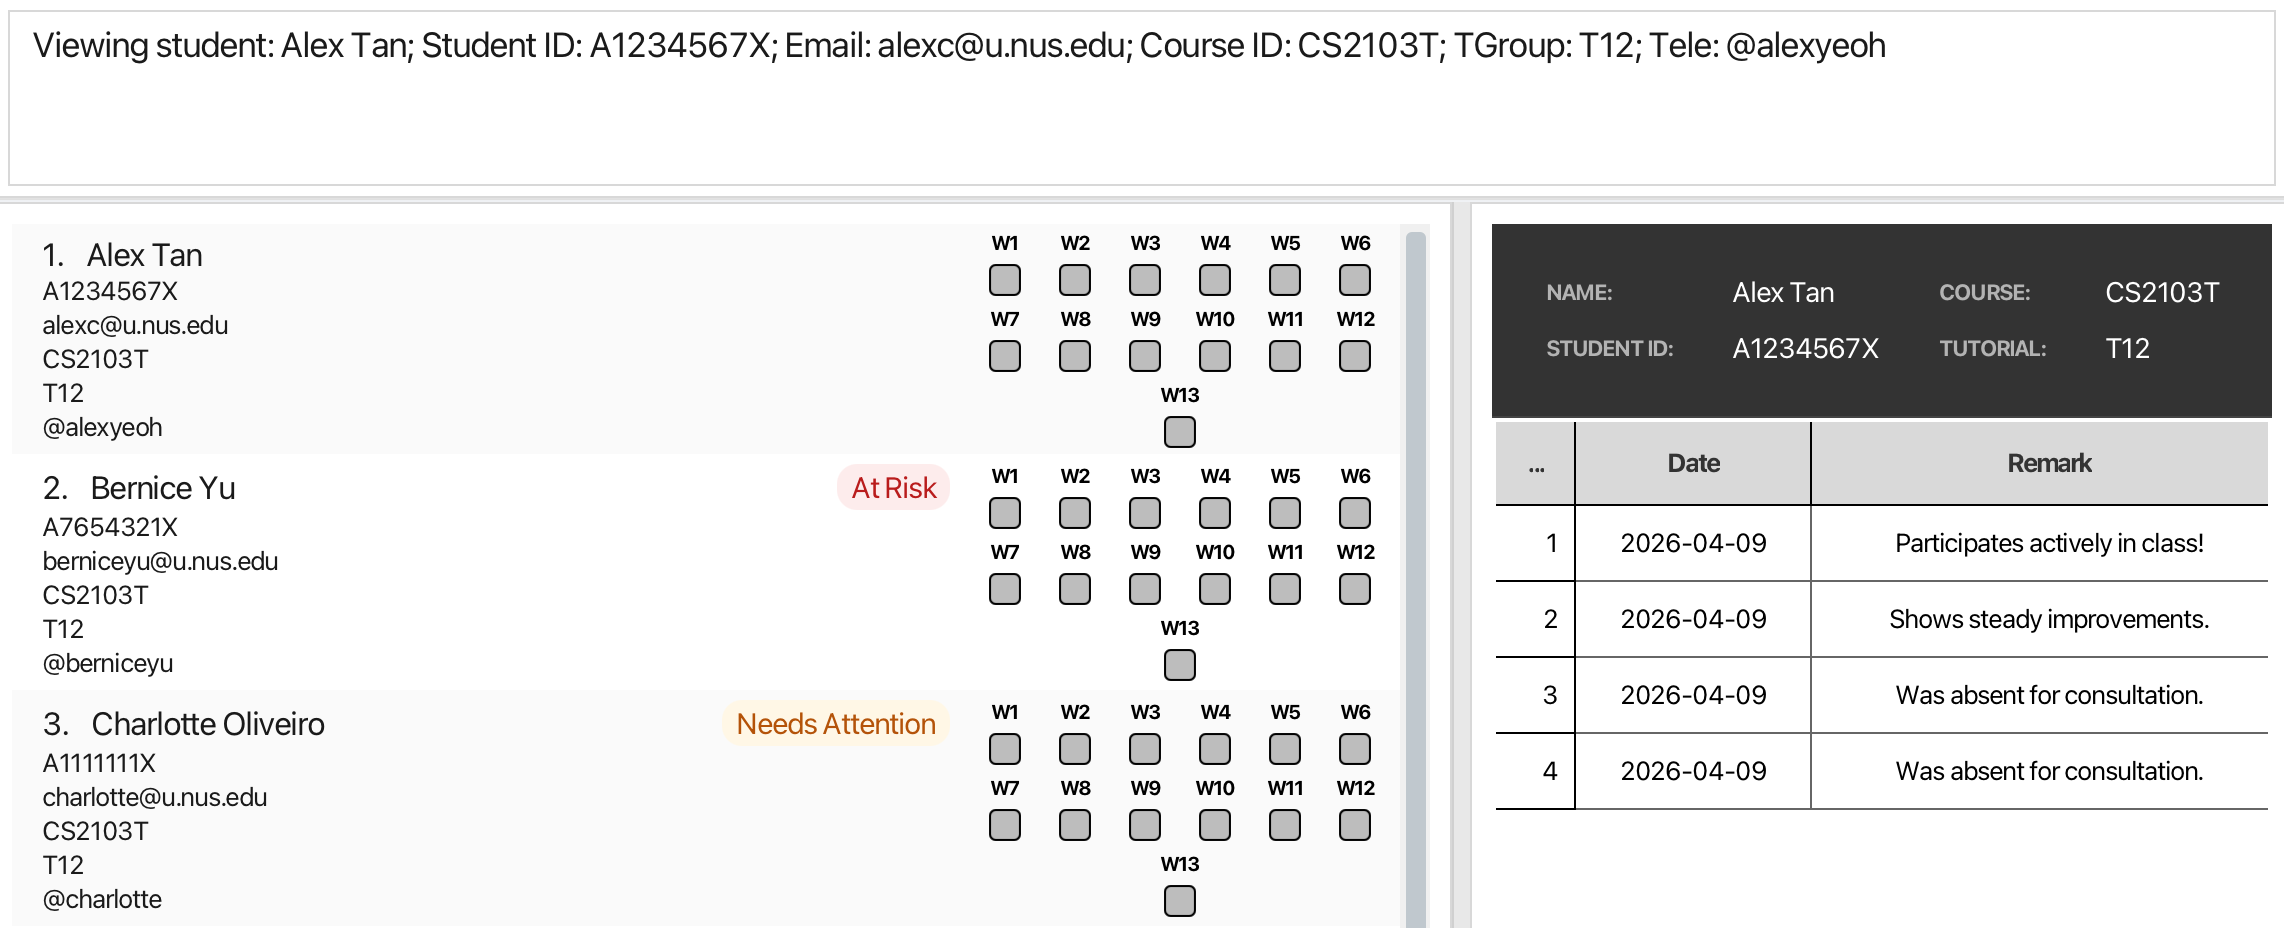
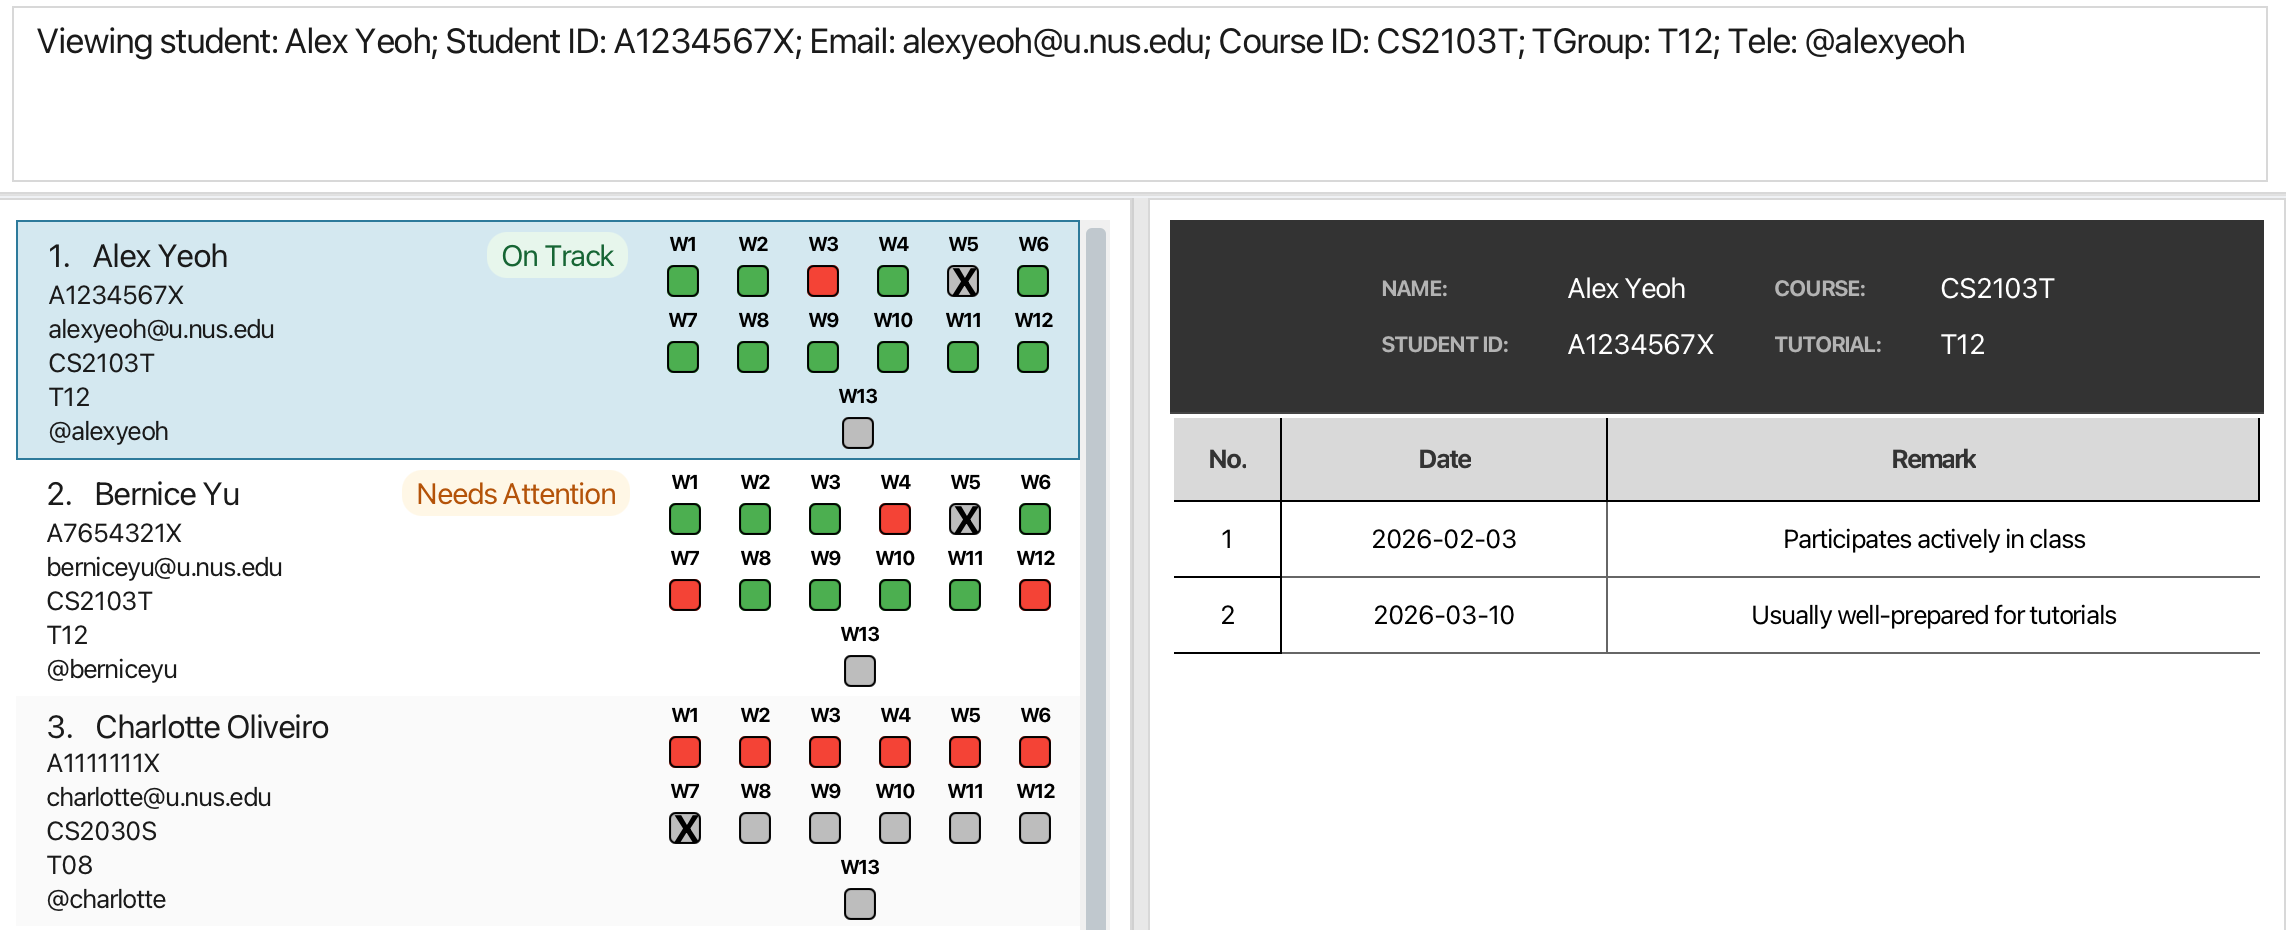
Updated all UI screenshots in UG

diff --git a/docs/UserGuide.md b/docs/UserGuide.md
@@ -96,7 +96,7 @@ Can't wait to get TeachAssist up and running? Let’s begin!
    After a few seconds, the GUI should appear, similar to the screenshot below.
    Notice that the app starts with some sample data for you to try out the commands.
 
-   ![Ui](images/Ui.png)
+    <img src="images/UiAnnotated.png" alt="help window" width="800">
 
 6. **Try entering a command in the command box.**
    A good place to start is help. Type it in and press Enter to open the help window and view the list of available commands.
@@ -354,15 +354,15 @@ marka INDEX wk/WEEK_NUMBER s/STATUS
 
 **Examples**:
 
-- `marka 1 wk/3 s/y` - marks the attendance of the 1st student's attendance in week 3 as present -> Green.
+- `marka 1 wk/3 s/a` - marks the attendance of the 1st student's attendance in week 3 as absent -> Red.
 
 **Expected output:**
 
 The selected student's attendance record is updated immediately in the student list, and the corresponding week is shown with the updated attendance status.
-mark
 
-The following shows week 3 marked as present(green) for Alex Tan, week 6 marked as absent(red) for Bernice Yu, and unmarked(default) for everything else.
-<img src="images/markattendancesuccess.png" alt="marka success" width="700">
+The following shows week 3 marked as absent(red) for Alex Yeoh.
+
+<img src="images/markattendancesuccess.png" alt="marka success" width="500">
 
 <a name="cancel-week"></a>
 #### Cancelling a tutorial's week: `cancelw`
@@ -391,9 +391,9 @@ If a tutorial does not take place for a certain week, such as a public holiday o
 
 **Expected output:**
 
-All students in CS2103T, tutorial T02 will show week 5 as cancelled (represented by an X) in their attendance records.
+All students in CS2103T, tutorial T12 will show week 5 as cancelled (represented by an X) in their attendance records, all other students remain unchanged.
 
-<img src="images/cancelweeksuccess.png" alt="cancelw success" width="700">
+<img src="images/cancelweeksuccess.png" alt="cancelw success" width="500">
 
 
 <a name="uncancel-week"></a>
@@ -566,9 +566,9 @@ delete INDEX
 
 After you enter a valid `delete` command, TeachAssist will show a confirmation message.
 
-You should see this confirmation message shown after a valid `delete` command:
+You should see a similar confirmation message shown after a valid `delete` command:
 
-<img src="images/deleteconfirmation.png" alt="delete confirmation" width="700">
+> Are you sure you want to delete Alex Yeoh? Type 'yes' to confirm or 'no' to cancel.
 
 Enter `yes` to proceed with the deletion, or `no` to cancel it.
 
@@ -581,7 +581,7 @@ Enter `yes` to proceed with the deletion, or `no` to cancel it.
 
 If the deletion is confirmed, TeachAssist will display a success message so you know the student has been successfully removed.
 
-<img src="images/deleteconfirmation.png" alt="delete confirmation" width="700">
+> Deleted Person: Alex Yeoh; Student ID: A0123456X; Email: alexyeoh@u.nus.edu; Course ID: CS2103T; TGroup: T12; Tele: @alexyeoh
 
 Did you get it? If you did, congrats!
 
@@ -603,7 +603,8 @@ delete id/STUDENT_ID crs/COURSE_ID tg/TUTORIAL_GROUP
 - `delete id/A1234567X crs/CS2103T tg/T01` followed by `yes` - deletes the student with student ID `A1234567X`, course `CS2103T`, and tutorial group `T01`.
 
 <box type="info">
-Note:
+
+**Note:**
     This method searches the entire TeachAssist list, not just the students currently displayed. This means a student can still be deleted even if they are currently hidden by a filter.
 </box>
 
@@ -637,14 +638,14 @@ TeachAssist data are saved automatically as a JSON file [JAR file location]/data
 
 <box type="warning">
 
-  **Warning:**
-  If your changes to the data file makes its format invalid, TeachAssist will discard all data and start with an empty data file at the next run. Hence, it is recommended to take a backup of the file before editing it.
+**Warning:**
+If your changes to the data file makes its format invalid, TeachAssist will discard all data and start with an empty data file at the next run. Hence, it is recommended to take a backup of the file before editing it.
 Furthermore, certain edits can cause the TeachAssist to behave in unexpected ways (e.g., if a value entered is outside of the acceptable range). Therefore, edit the data file only if you are confident that you can update it correctly.
 </box>
 
 ## Command Summary
 
-Action | Format, Examples
+Action | Format
 -------|----------------------------------------------------------------------------------------------------------------------------------------------------------------------------------------------------
 **Help** | `help`
 **List** | `list`
@@ -659,7 +660,7 @@ Action | Format, Examples
 **Remark** | `remark INDEX txt/REMARK`<br> e.g., `remark 1 txt/Participates actively in class!`
 **Unremark** | `unremark INDEX r/REMARK_INDEX`<br> e.g., `unremark 1 r/2`
 **View** | `view INDEX`<br> e.g., `view 1`
-**Delete** | `delete INDEX`<br> e.g., `delete 3`<br> or `delete id/STUDENT_ID crs/COURSE_ID tg/TUTORIAL_GROUP`<br> e.g., `delete id/A1234567X crs/CS2103T tg/T01`
+**Delete** | By index: `delete INDEX`<br>e.g., `delete 3`<br><br>By student details: `delete id/STUDENT_ID crs/COURSE_ID tg/TUTORIAL_GROUP`<br>e.g., `delete id/A1234567X crs/CS2103T tg/T01`
 **Clear** | `clear`
 **Exit** | `exit`
 
@@ -709,9 +710,6 @@ TeachAssist follows the NUS 13-week teaching schedule (weeks 1–13). Week numbe
 
 Term | Meaning
 -----|--------
-**Command Box** | The text field at the top of the TeachAssist window where you type commands.
-**Result Box** | The area directly below the Command Box that displays feedback messages after each command (e.g., success or error messages).
-**View Window** | The panel on the right side of the TeachAssist window that shows a selected student's detailed information and remarks.
 **Prefix** | A short tag ending with `/` that tells TeachAssist which parameter you are providing (e.g., `n/` for name, `crs/` for course ID). See the [Parameter Summary](#parameter-summary) for the full list.
 **JSON (JavaScript Object Notation)** | The file format TeachAssist uses to store your data (`data/addressbook.json`). It is a human-readable text format.
 **Home Folder** | The folder where you placed `TeachAssist.jar`. TeachAssist creates a `data/` subfolder here to store your student data.
